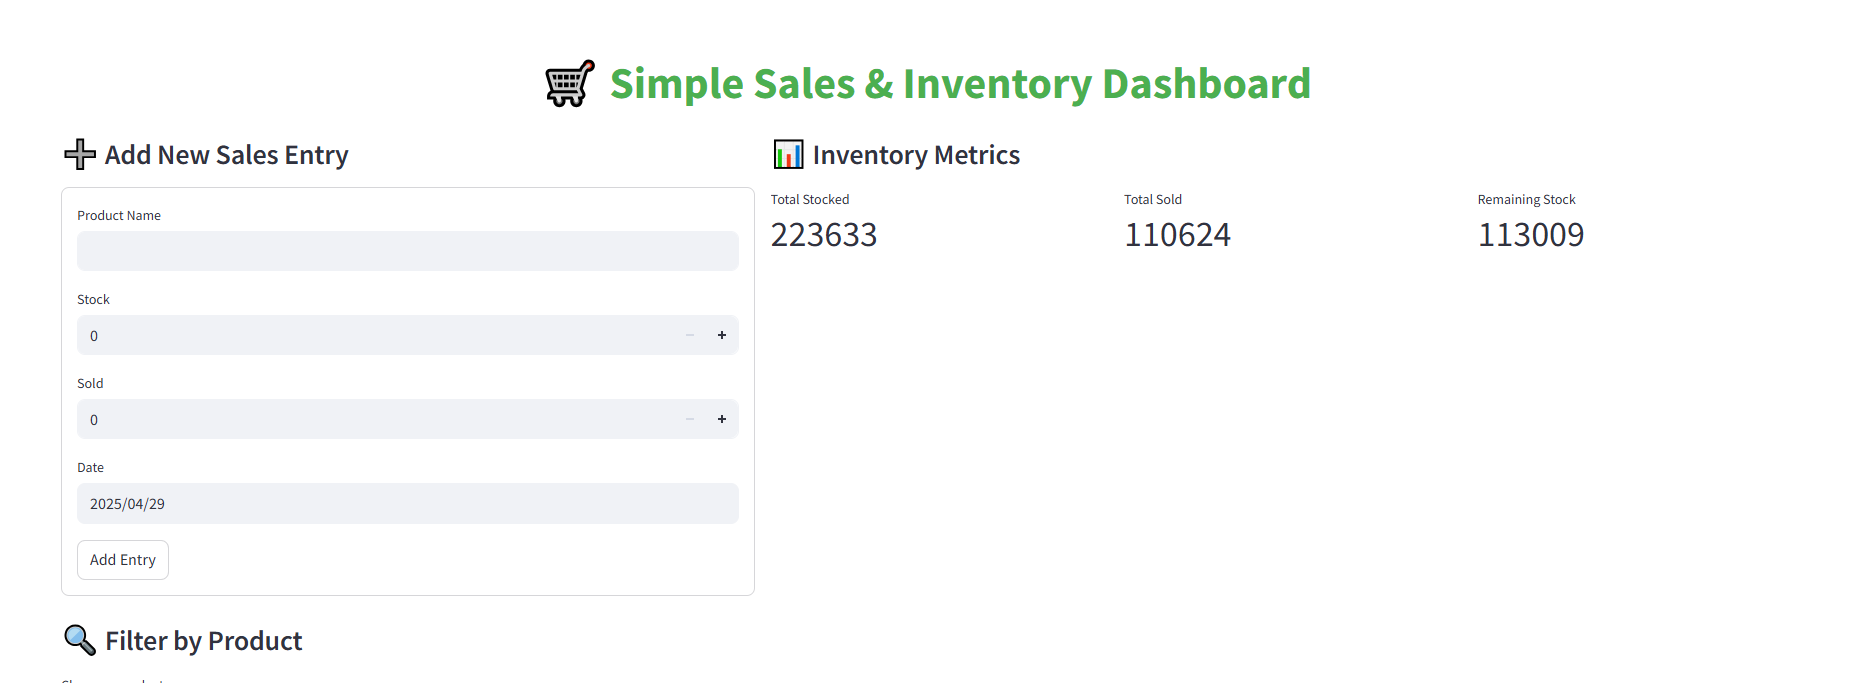
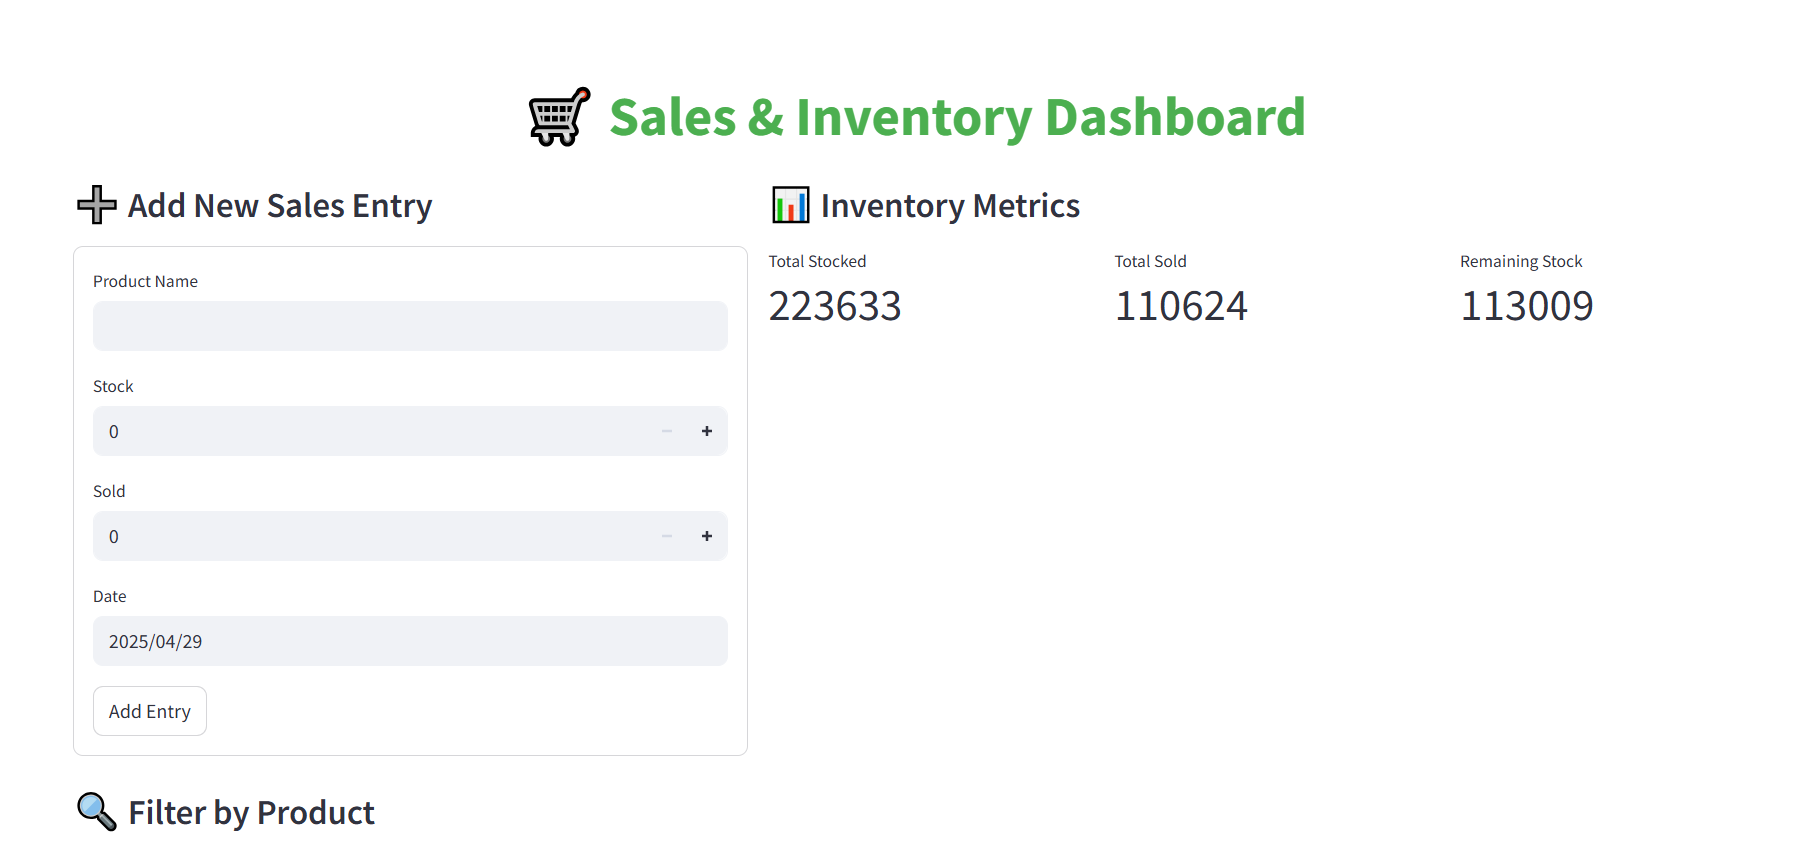
added img1

diff --git a/sales_inventory_app.py b/sales_inventory_app.py
@@ -6,7 +6,7 @@ st.set_page_config(page_title="Sales & Inventory Dashboard", layout="wide")
 
 # Adding title using HTML <h1> tag
 st.markdown(
-    "<h1 style='text-align: center; color: #4CAF50;'>🛒 Simple Sales & Inventory Dashboard</h1>",
+    "<h1 style='text-align: center; color: #4CAF50;'>🛒 Sales & Inventory Dashboard</h1>",
     unsafe_allow_html=True,
 )
 
